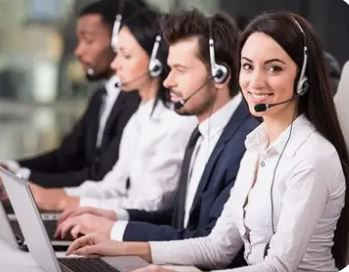
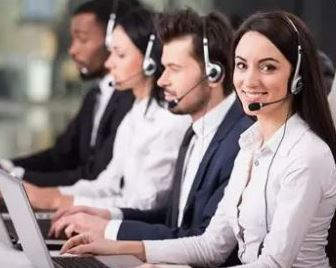
Add files via upload

diff --git a/index.html b/index.html
@@ -1006,7 +1006,7 @@ const SECTORS = [
     desc:'Execution of international corporate events at landmarks such as the Grand Egyptian Museum, Giza Pyramids, and Le Lac du Caire — covering site rentals, catering, climate control, diplomat security, and crowd-flow architecture.',
     ar_title:'تنظيم الفعاليات التاريخية رفيعة المستوى',
     ar_desc:'تنظيم وتنفيذ فعاليات مؤسسية دولية في معالم تاريخية مثل المتحف المصري الكبير وأهرامات الجيزة وبحيرة القاهرة — وتشمل الخدمات تأجير المواقع، والضيافة الفاخرة، والتحكم في المناخ، وبروتوكولات أمن الدبلوماسيين، وتنظيم تدفق الحشود.' },
-  { title:'Outsource Services', img:'out.JPG', icon:'bi-headset',
+  { title:'Outsource Services', img:'out.jpg', icon:'bi-headset',
     desc:'Call-center-related technical services, recruitment, and staff training for banking, multinational companies, petroleum companies, and hotels/restaurants.',
     ar_title:'خدمات الاستعانة بمصادر خارجية',
     ar_desc:'خدمات فنية متعلقة بمراكز الاتصال، والتوظيف، وتدريب الموظفين لقطاعات البنوك والشركات متعددة الجنسيات وشركات البترول والفنادق والمطاعم.' },